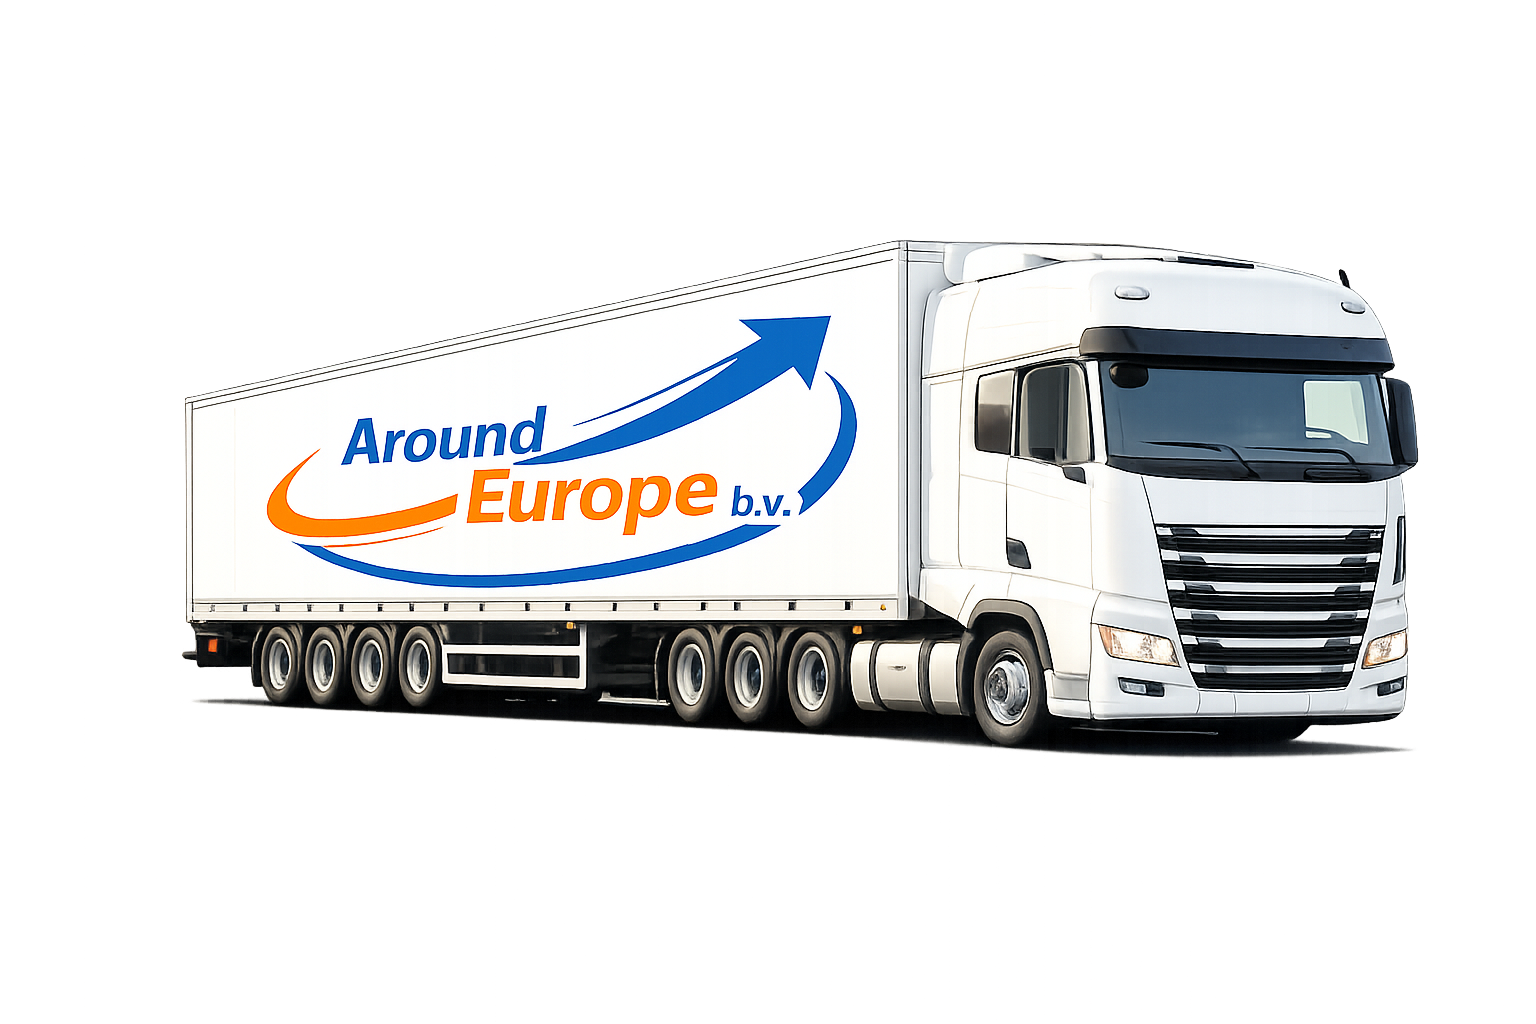
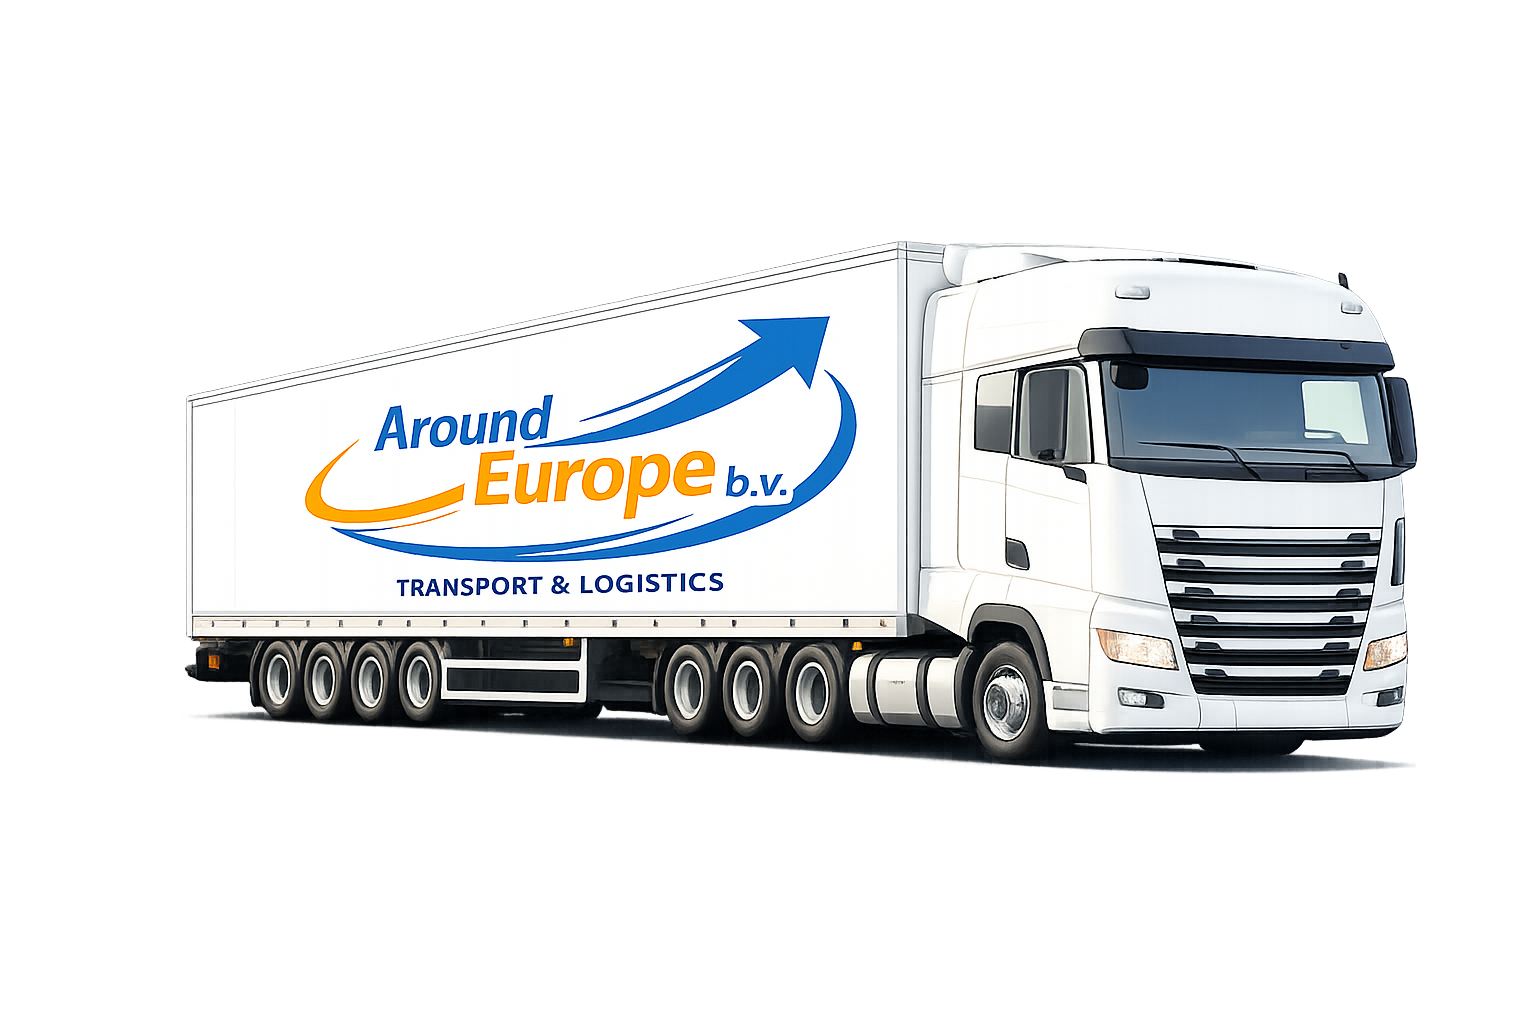
updates

diff --git a/components/PageSections.tsx b/components/PageSections.tsx
@@ -1,5 +1,6 @@
 import Link from "next/link";
 import Image from "next/image";
+import { Fragment } from "react";
 
 import { FleetGallery } from "@/components/FleetGallery";
 import { ContactForm } from "@/components/ContactForm";
@@ -41,7 +42,7 @@ export function HomeSections({ locale, content }: { locale: Locale; content: Con
 
           <div className="hero-stage" aria-hidden="true">
             <div className="hero-cutout">
-              <Image src="/hero-truck-cutout.png" alt="" width={1240} height={760} priority />
+              <Image src="/hero-truck-cutout-v2.png" alt="" width={1240} height={760} priority />
             </div>
             <div className="hero-transaction-strip">
               {content.hero.cards.map((card, index) => (
@@ -249,7 +250,14 @@ export function ContactSection({
             {content.offices.offices.map((office) => (
               <article key={office.key}>
                 <strong>{office.role}</strong>
-                <span>{office.address}</span>
+                <span>
+                  {office.address.split("\n").map((line, index) => (
+                    <Fragment key={`${office.key}-${index}`}>
+                      {index > 0 ? <br /> : null}
+                      {line}
+                    </Fragment>
+                  ))}
+                </span>
               </article>
             ))}
           </div>

diff --git a/app/globals.css b/app/globals.css
@@ -101,7 +101,7 @@ ul {
   justify-content: space-between;
   gap: 20px;
   width: 100%;
-  padding: 14px 24px;
+  padding: 18px 24px;
   border-bottom: 1px solid rgba(255, 255, 255, 0.8);
   background: rgba(255, 255, 255, 0.78);
   backdrop-filter: blur(18px);
@@ -111,15 +111,17 @@ ul {
 .brand {
   display: flex;
   align-items: center;
-  gap: 14px;
+  gap: 0;
+  padding: 0;
   font-weight: 700;
   letter-spacing: -0.03em;
 }
 
-.brand img {
-  width: 220px;
-  height: 74px;
+.brand-logo {
+  width: 240px;
+  height: 94px;
   object-fit: contain;
+  object-position: left center;
   filter: drop-shadow(0 8px 14px rgba(18, 63, 127, 0.14));
 }
 
@@ -809,6 +811,7 @@ blockquote {
 .office-band span {
   color: rgba(255, 255, 255, 0.78);
   line-height: 1.65;
+  white-space: pre-line;
 }
 
 .office-marker {
@@ -833,6 +836,10 @@ blockquote {
   display: grid;
   gap: 8px;
   color: var(--text);
+}
+
+.office-popup span {
+  white-space: pre-line;
 }
 
 .site-footer {
@@ -1048,13 +1055,9 @@ blockquote {
     padding-right: 18px;
   }
 
-  .brand span {
-    display: none;
-  }
-
-  .brand img {
-    width: 170px;
-    height: 58px;
+  .brand-logo {
+    width: 198px;
+    height: 77px;
   }
 
   .slide-inner {

diff --git a/components/SiteHeader.tsx b/components/SiteHeader.tsx
@@ -49,8 +49,14 @@ export function SiteHeader({ locale, pageId, nav }: HeaderProps) {
 
       <header className="topbar">
         <Link className="brand" href={getLocalizedPath(locale, "home")} aria-label="Around Europe B.V.">
-          <Image src="/new_logo.png" alt="Around Europe B.V. logo" width={220} height={74} priority />
-          <span>Around Europe B.V.</span>
+          <Image
+            src="/logo.png"
+            alt="Around Europe B.V. logo"
+            width={240}
+            height={94}
+            className="brand-logo"
+            priority
+          />
         </Link>
 
         <button

diff --git a/components/OfficeMap.tsx b/components/OfficeMap.tsx
@@ -43,10 +43,11 @@ export function OfficeMap({ offices, label }: Props) {
 
       offices.forEach((office) => {
         bounds.push(office.coords);
+        const addressWithBreaks = office.address.split("\n").join("<br />");
         L.marker(office.coords, { icon })
           .addTo(map)
           .bindPopup(
-            `<div class="office-popup"><strong>${office.role}</strong><span>${office.city}</span><span>${office.address}</span></div>`
+            `<div class="office-popup"><strong>${office.role}</strong><span>${office.city}</span><span>${addressWithBreaks}</span></div>`
           );
       });
 

diff --git a/app/[locale]/[[...slug]]/page.tsx b/app/[locale]/[[...slug]]/page.tsx
@@ -85,7 +85,7 @@ export async function generateMetadata({ params }: Props): Promise<Metadata> {
       siteName: "Around Europe B.V.",
       images: [
         {
-          url: "/new_logo.png",
+          url: "/logo.png",
           width: 1200,
           height: 630,
           alt: "Around Europe B.V. logo",
@@ -96,7 +96,7 @@ export async function generateMetadata({ params }: Props): Promise<Metadata> {
       card: "summary_large_image",
       title: pageSeo.title,
       description: pageSeo.description,
-      images: ["/new_logo.png"],
+      images: ["/logo.png"],
     },
   };
 }

diff --git a/lib/site-data.ts b/lib/site-data.ts
@@ -159,7 +159,7 @@ const offices: Office[] = [
     key: "denbosch",
     city: "'s-Hertogenbosch",
     role: "Nederland - 's-Hertogenbosch",
-    address: "Hambakenwetering 2A, 5231 DC 's-Hertogenbosch, Nederland",
+    address: "Hambakenwetering 2A, 5231 DC\n's-Hertogenbosch, Nederland",
     coords: [51.7178, 5.3037],
   },
   {
